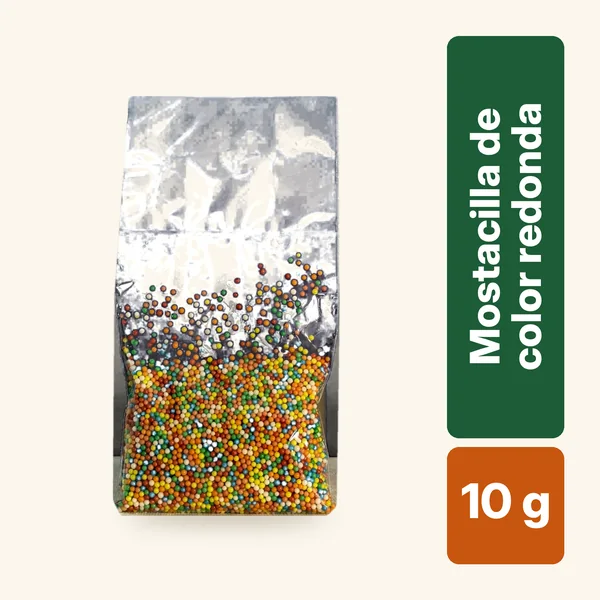
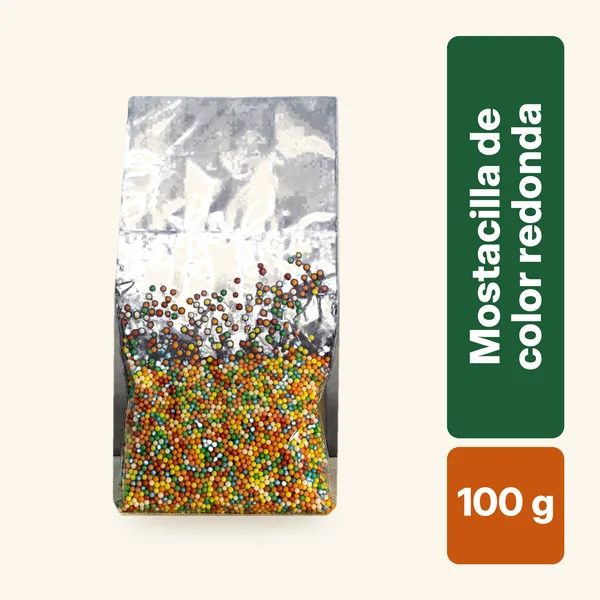
Carta: precios nuevos de cajas de huevo, línea Novogen y promo de tercera
- Cajas a un solo precio (blanco, color y Novogen): súper 13.900, extra 21.500, primera 18.990, segunda 13.990.
- Página Huevos Novogen (súper, extra, primera y segunda), solo por caja.
- Tercera: bandeja a 1.990 y 2 bandejas por 2.990 (reemplaza la oferta de 2.000).
- Coca-Cola 591 cc y mostacilla de color redonda en bolsa de 100 g.

Changed region(s): [[0.75, 0.78, 0.93, 0.9]]

diff --git a/carta/index.html b/carta/index.html
@@ -1797,17 +1797,17 @@ const LOCALES = {
       {cod:"HUE005",cat:"Huevos",nombre:"Huevo jumbo blanco",detalle:"Precio por bandeja",precio:null,formatos:"huevoGrande"},
       {cod:"HUE008",retirado:true,cat:"Huevos",nombre:"Huevo súper blanco 100 u",detalle:"Precio por bandeja",precio:null,formatos:"huevoGrande"},
       {cod:"HUE007",cat:"Huevos",nombre:"Huevo súper blanco",detalle:"Precio por bandeja",precio:null,formatos:"huevoGrande"},
-      {cod:"HUE010",retirado:true,cat:"Huevos",nombre:"Huevo súper bandeja 30 café",detalle:"Precio por unidad",precio:null,formatos:"huevoGrande"},
+      {cod:"HUE010",cat:"Huevos",nombre:"Huevo súper Novogen",detalle:"Precio por caja",precio:null,formatos:"huevoGrande",modoIni:"F100",nuevo:true},
       {cod:"HUE012",cat:"Huevos",nombre:"Huevo extra blanco",detalle:"Precio por bandeja",precio:null,formatos:"huevo"},
-      {cod:"HUE011",retirado:true,cat:"Huevos",nombre:"Huevo súper color 20 u (100 u por caja)",detalle:"Precio por bandeja",precio:null,formatos:"huevoGrande"},
+      {cod:"HUE011",cat:"Huevos",nombre:"Huevo extra Novogen",detalle:"Precio por caja",precio:null,formatos:"huevo",modoIni:"F180",nuevo:true},
       {cod:"HUE014",cat:"Huevos",nombre:"Huevo primera blanco",detalle:"Precio por bandeja",precio:null,formatos:"huevo"},
       {cod:"HUE015",cat:"Huevos",nombre:"Huevo primera café",detalle:"Precio por bandeja",precio:null,formatos:"huevo"},
       {cod:"HUE017",cat:"Huevos",nombre:"Huevo segunda blanco",detalle:"Precio por bandeja",precio:null,formatos:"huevo"},
-      {cod:"HUE019",retirado:true,cat:"Huevos",nombre:"Huevo segunda café bandeja 30",detalle:"Precio por unidad",precio:null,formatos:"huevo"},
+      {cod:"HUE019",cat:"Huevos",nombre:"Huevo segunda Novogen",detalle:"Precio por caja",precio:null,formatos:"huevo",modoIni:"F180",nuevo:true},
       {cod:"HUE022",cat:"Huevos",nombre:"Huevo de quinta jumbo × 20",detalle:"Precio por unidad",precio:null,formatos:"huevoGrande",retirado:true},
       {cod:"HUE024",retirado:true,cat:"Huevos",nombre:"Huevo quinta × 30",detalle:"Precio por unidad",precio:null,formatos:"huevo"},
       {cod:"HUE018",cat:"Huevos",nombre:"Huevo segunda café",detalle:"Precio por bandeja",precio:null,formatos:"huevo"},
-      {cod:"HUE016",retirado:true,cat:"Huevos",nombre:"Huevo primera café bandeja",detalle:"Precio por unidad",precio:null,formatos:"huevo"},
+      {cod:"HUE016",cat:"Huevos",nombre:"Huevo primera Novogen",detalle:"Precio por caja",precio:null,formatos:"huevo",modoIni:"F180",nuevo:true},
       {cod:"HUE013",cat:"Huevos",nombre:"Huevo extra café",detalle:"Precio por bandeja",precio:null,formatos:"huevo"},
       {cod:"HUE009",cat:"Huevos",nombre:"Huevo súper café",detalle:"Precio por bandeja",precio:null,formatos:"huevoGrande"},
       {cod:"HUE006",cat:"Huevos",nombre:"Huevo jumbo café",detalle:"Precio por bandeja",precio:null,formatos:"huevoGrande"},
@@ -1845,7 +1845,7 @@ const LOCALES = {
       {cod:"BEB002",cat:"Bebidas y jugos",nombre:"Agua Vital con gas 1,6 l",detalle:"Precio por unidad · paquete de 6 u",precio:720,upp:6,nuevo:true,foto:"../img/productos/fotos/BEB002.webp"},
       {cod:"BEB003",cat:"Bebidas y jugos",nombre:"Agua Vital sin gas 600 cc",detalle:"Precio por unidad · paquete de 12 u",precio:410,upp:12,nuevo:true,foto:"../img/productos/fotos/BEB003.webp"},
       {cod:"BEB004",cat:"Bebidas y jugos",nombre:"Agua Vital sin gas 1,6 l",detalle:"Precio por unidad · paquete de 6 u",precio:720,upp:6,nuevo:true,foto:"../img/productos/fotos/BEB004.webp"},
-      {cod:"BEB005",cat:"Bebidas y jugos",nombre:"Coca-Cola 561 cc",detalle:"Precio por unidad · paquete de 6 u",precio:1190,upp:6,nuevo:true,foto:"../img/productos/fotos/BEB005.webp"},
+      {cod:"BEB005",cat:"Bebidas y jugos",nombre:"Coca-Cola 591 cc",detalle:"Precio por unidad · paquete de 6 u",precio:1190,upp:6,nuevo:true,foto:"../img/productos/fotos/BEB005.webp"},
       {cod:"BEB006",cat:"Bebidas y jugos",nombre:"Coca-Cola 1,5 l",detalle:"Precio por unidad · paquete de 6 u",precio:2240,upp:6,nuevo:true,foto:"../img/productos/fotos/BEB006.webp"},
       {cod:"BEB007",cat:"Bebidas y jugos",nombre:"Coca-Cola 3 l",detalle:"Precio por unidad · paquete de 6 u",precio:3410,upp:6,nuevo:true,foto:"../img/productos/fotos/BEB007.webp"},
       {cod:"BEB008",cat:"Bebidas y jugos",nombre:"Fanta naranja 1,5 l",detalle:"Precio por unidad · paquete de 6 u",precio:2240,upp:6,nuevo:true,foto:"../img/productos/fotos/BEB008.webp"},
@@ -1951,7 +1951,7 @@ const LOCALES = {
       {cod:"ABA059",cat:"Harinas y repostería",nombre:"Maicena",detalle:"Precio por kilo",precio:1780,bolsas:[[500, 890]],nuevo:true},
       {cod:"ABA067",cat:"Harinas y repostería",nombre:"Mostacilla de chocolate",detalle:"Precio por kilo",precio:7900,bolsas:[[100, 790], [1000, 7900]],nuevo:true,foto:"../img/productos/fotos/ABA067.webp"},
       {cod:"ABA068",cat:"Harinas y repostería",nombre:"Mostacilla de color de palito",detalle:"Precio por kilo",precio:7900,bolsas:[[100, 790]],nuevo:true,foto:"../img/productos/fotos/ABA068.webp"},
-      {cod:"ABA069",cat:"Harinas y repostería",nombre:"Mostacilla de color redonda",detalle:"Precio por kilo",precio:7900,bolsas:[[10, 90]],nuevo:true,foto:"../img/productos/fotos/ABA069.webp"},
+      {cod:"ABA069",cat:"Harinas y repostería",nombre:"Mostacilla de color redonda",detalle:"Precio por kilo",precio:7900,bolsas:[[100, 790]],nuevo:true,foto:"../img/productos/fotos/ABA069.webp"},
       {cod:"ABA032",cat:"Harinas y repostería",nombre:"Cacao ecuatoriano",detalle:"Precio por kilo",precio:9960,nuevo:true,bolsas:[[250,2490]]},
       {cod:"ABA038",cat:"Harinas y repostería",nombre:"Chocolate dulce",detalle:"Precio por kilo",precio:8760,nuevo:true,bolsas:[[250,2190]]},
       {cod:"ABA024",cat:"Semillas y cereales",nombre:"Amapola",detalle:"Precio por kilo",precio:9990,bolsas:[[50, 750]],nuevo:true,foto:"../img/productos/fotos/ABA024.webp"},
@@ -2323,7 +2323,7 @@ const precioBase=p=>{const t=tapaDe(p),b=precioDe(p);if(!t)return b;return b==nu
 /* Cada página de la carta es de un solo tipo de producto: las secciones compuestas («Envases y contenedores», «Potes y salseros»…)
    se dividen según el nombre del producto. p.catBase guarda la sección original (para el ícono). El último tipo de cada lista recibe lo que no calza. */
 const SUBCATS={
-  "Huevos":[["Huevos blancos",/blanco/],["Huevos de color",/(cafe|color)/],["Huevos de quinta",/quinta/],["Huevos",/./]],
+  "Huevos":[["Huevos Novogen",/novogen/],["Huevos blancos",/blanco/],["Huevos de color",/(cafe|color)/],["Huevos de quinta",/quinta/],["Huevos",/./]],
   "Envases y contenedores":[["Envases",/^(envase|bandeja plastica|caja plastica)/],["Contenedores",/^(ct |contenedor|p 1 contenedor|clamshell|sushi)/],["Cúpulas",/./]],
   "Cajas y bandejas de cartón":[["Cajas de cartón",/^(caja|huicha|sandwich)/],["Bandejas de cartón",/^(bandeja|completero)/],["Bowls y conos de cartón",/./]],
   "Bolsas, sacos y papeles":[["Bolsas",/^(bolsa|cartucho)/],["Sacos y mallas",/^(saco|malla)/],["Papeles y film",/./]],
@@ -2343,24 +2343,33 @@ const CALIBRE=p=>{const n=nPlano(p.nombre);if(/quinta/.test(n))return /jumbo/.te
   const pal=n.split(/[^a-z0-9]+/),k=['extra','primera','segunda','tercera','cuarta'].findIndex(w=>pal.includes(w));return k<0?9:3+k};
 (()=>{const pos=[],hv=[];L.productos.forEach((p,i)=>{if(p.cat==="Huevos"&&!esPieza(p)){pos.push(i);hv.push(p)}});
   hv.map((p,i)=>({p,i,k:CALIBRE(p)})).sort((a,b)=>a.k-b.k||a.i-b.i).forEach((o,j)=>{L.productos[pos[j]]=o.p})})();
-/* Ofertas del mes con precio por formato (dato del Emporio): bandeja de 30 de huevo tercera a $2.000.
-   Solo esa bandeja lleva el precio de oferta; la unidad, la docena y la caja siguen con su precio normal. */
-const OFERTAS_FMT={HUE020:{F30:2000},HUE021:{F30:2000},ABA034:{Fb250:19590}};
+/* Ofertas del mes con precio por formato (dato del Emporio). Promo de huevo tercera (David, 21/11/2026; reemplaza la de $2.000):
+   bandeja de 30 a $1.990 y 2 bandejas por $2.990. Solo la bandeja lleva la promo; la unidad, la docena y la caja siguen con su precio normal.
+   PROMO_FMT: [n, precio] = n del formato por ese precio (en el carro, los pares van a precio de promo y la que sobra a precio de oferta). */
+const OFERTAS_FMT={HUE020:{F30:1990},HUE021:{F30:1990},ABA034:{Fb250:19590}};
 L.productos.forEach(p=>{const o=OFERTAS_FMT[p.cod];if(o){p.ofertaFmt=o;p.fav=true}});
+const PROMO_FMT={HUE020:{F30:[2,2990]},HUE021:{F30:[2,2990]}};
+const promoFmt=(p,fid)=>(PROMO_FMT[p.cod]||{})[fid]||null;
 const precioFmt=(p,fid)=>p.ofertaFmt&&p.ofertaFmt[fid]!=null?p.ofertaFmt[fid]:null;
 /* Lista de precios de huevos del 12-11-2026 (con IVA, blanco y color; David, 19/11/2026): bandeja y caja.
-   La caja: [1 caja, desde 5, desde 25, desde 35 cajas] (null = sin precio en ese tramo). La unidad, media docena, docena y 15 quedan por confirmar. */
+   La caja: [1 caja, desde 5, desde 25, desde 35 cajas] (null = sin precio en ese tramo). La unidad, media docena, docena y 15 quedan por confirmar.
+   21/11/2026 (David): cajas a un solo precio, desde 1 caja y la cantidad que sea (sin tramos), en blanco, color y Novogen:
+   súper $13.900 (caja de 100), extra $21.500, primera $18.990 y segunda $13.990 (caja de 180). Novogen solo tiene precio de caja. */
 const LISTA_HUEVOS={
   superJumbo:{F20:5500,F100:[24000,23000,22000,21000]},
   jumbo:{F20:4700,F100:[20500,19000,18000,17000]},
-  super:{F20:4000,F100:[17900,17000,16000,15000]},
-  extra:{F30:5300,F180:[27000,26000,25000,22500]},
-  primera:{F30:5000,F180:[24000,23000,22000,21000]},
-  segunda:{F30:4000,F180:[16500,15500,15000,14500]},
+  super:{F20:4000,F100:[13900,null,null,null]},
+  superNovogen:{F100:[13900,null,null,null]},
+  extra:{F30:5300,F180:[21500,null,null,null]},
+  extraNovogen:{F180:[21500,null,null,null]},
+  primera:{F30:5000,F180:[18990,null,null,null]},
+  primeraNovogen:{F180:[18990,null,null,null]},
+  segunda:{F30:4000,F180:[13990,null,null,null]},
+  segundaNovogen:{F180:[13990,null,null,null]},
   tercera:{F30:3500,F180:[12000,null,null,11000]}
 };
 const TRAMOS_CAJA=[1,5,25,35];
-const CAL_HUEVO={HUE004:"superJumbo",HUE005:"jumbo",HUE006:"jumbo",HUE007:"super",HUE009:"super",HUE012:"extra",HUE013:"extra",HUE014:"primera",HUE015:"primera",HUE017:"segunda",HUE018:"segunda",HUE020:"tercera",HUE021:"tercera"};
+const CAL_HUEVO={HUE004:"superJumbo",HUE010:"superNovogen",HUE011:"extraNovogen",HUE016:"primeraNovogen",HUE019:"segundaNovogen",HUE005:"jumbo",HUE006:"jumbo",HUE007:"super",HUE009:"super",HUE012:"extra",HUE013:"extra",HUE014:"primera",HUE015:"primera",HUE017:"segunda",HUE018:"segunda",HUE020:"tercera",HUE021:"tercera"};
 // precio de lista de un formato de huevo para n bandejas o cajas (la caja baja por tramos); null si no hay
 function precioLista(p,fid,n){if(p.bolsas){const b=p.bolsas.find(([g])=>"Fb"+g===fid);return b?b[1]:null}const c=LISTA_HUEVOS[CAL_HUEVO[p.cod]],v=c&&c[fid];if(v==null)return null;if(!Array.isArray(v))return v;let pr=v[0];TRAMOS_CAJA.forEach((d,i)=>{if(n>=d&&v[i]!=null)pr=v[i]});return pr}
 // páginas de huevos en vista «por caja»: ahí la caja es la única forma de venta (sin selector de formato)
@@ -2386,7 +2395,7 @@ function cajaPrecioHTML(p){const f=fmtInfo(p,modoDe(p)),q=cajasEn(p),pr=precioLi
 // etiqueta lateral de los huevos: «Extra color» y el formato elegido («Caja de 180», «Bandeja de 30»…)
 function etLatHTML(p){const n=nPlano(p.nombre),m=n.match(/super jumbo|quinta jumbo|jumbo|super|extra|primera|segunda|tercera|cuarta|quinta/);if(!m)return "";
   const cal={"super jumbo":"Súper jumbo","super":"Súper","quinta jumbo":"Quinta jumbo"}[m[0]]||m[0][0].toUpperCase()+m[0].slice(1);
-  const col=/(cafe|color)/.test(n)?" color":/blanco/.test(n)?" blanco":"",f=fmtInfo(p,modoDe(p));
+  const col=/novogen/.test(n)?" Novogen":/(cafe|color)/.test(n)?" color":/blanco/.test(n)?" blanco":"",f=fmtInfo(p,modoDe(p));
   return `<span class="et-lat" aria-hidden="true"><b>${cal}${col}</b>${f?`<small>${f[2]} u</small>`:""}</span>`}
 function tramosLista(p,fid){const c=LISTA_HUEVOS[CAL_HUEVO[p.cod]],v=c&&c[fid];if(!Array.isArray(v))return [];return TRAMOS_CAJA.map((d,i)=>({desde:d,precio:v[i]})).filter((e,i)=>i>0&&e.precio!=null&&e.precio<v[0])}
 L.productos.forEach(p=>{const r=SUBCATS[p.cat];if(!r||esPieza(p))return;p.catBase=p.cat;p.cat=(r.find(([,re])=>re.test(nPlano(p.nombre)))||r[r.length-1])[0]});
@@ -2396,7 +2405,7 @@ const visibles=L.productos.filter(p=>!esPieza(p)&&!p.retirado); // retirado: ya 
 const favs=visibles.filter(p=>p.fav||p.oferta!=null);
 /* Familias: en el menú se ve primero la familia («Plásticos») y al tocarla se despliegan sus páginas («Envases», «Contenedores»…) */
 const FAMILIAS=[
-  ["Huevos",["Huevos blancos","Huevos de color","Huevos","Hueveras"]],
+  ["Huevos",["Huevos blancos","Huevos de color","Huevos Novogen","Huevos","Hueveras"]],
   ["Alimento para aves",["Alimentos","Núcleos y aditivos"]],
   ["Plásticos",["Envases","Contenedores","Cúpulas","Potes","Salseros"]],
   ["Cartón",["Cajas de cartón","Bandejas de cartón","Bowls y conos de cartón"]],
@@ -2431,7 +2440,7 @@ let modo={};try{modo=JSON.parse(leePref("modos-"+KEY)||"{}")||{}}catch(e){modo={
 /* Formatos de venta de los huevos (id, nombre, unidades). Los super y jumbo además van en bandeja de 20 y caja de 100. */
 const fmtDe=p=>FORMATOS[p.formatos]||null;
 const fmtInfo=(p,m)=>(fmtDe(p)||[]).find(f=>f[0]===m);
-const modoDe=p=>fmtDe(p)?(fmtInfo(p,modo[p.cod])?modo[p.cod]:(p.formatos==="huevoGrande"?"F20":p.bolsas?"Fb"+p.bolsas[0][0]:"F30")):tienePaq(p)?(modo[p.cod]||"P"):"U";
+const modoDe=p=>fmtDe(p)?(fmtInfo(p,modo[p.cod])?modo[p.cod]:(p.modoIni||(p.formatos==="huevoGrande"?"F20":p.bolsas?"Fb"+p.bolsas[0][0]:"F30"))):tienePaq(p)?(modo[p.cod]||"P"):"U";
 const clave=(cod,m)=>m==="P"?cod+"@P":m&&m[0]==="F"?cod+"@"+m:cod;
 // unidades que trae una unidad de venta en el modo m (paquete, formato de huevos o unidad)
 const porDe=(p,m)=>m==="P"?(p.upp||1):(fmtInfo(p,m)||[0,0,1])[2];
@@ -2457,7 +2466,7 @@ function precioHTML(p){
   if(p.virtual)return p.precio==null?`<span class="precio pc">Precio por confirmar</span>`:`<span class="precio"><small class="u">Desde</small> ${clp(p.precio)} <small class="u">c/u</small></span>`;
   if(p.oferta!=null)return `<span class="precio"><span class="badge-of">Oferta</span> ${clp(p.oferta)}${p.precio!=null?` <s>${clp(p.precio)}</s>`:""}</span>`;
   const base=precioBase(p);
-  if(fmtDe(p)&&precioFmt(p,modoDe(p))!=null){const f=fmtInfo(p,modoDe(p)),po=precioFmt(p,f[0]),pl=precioLista(p,f[0],1);return `<span class="precio"><span class="badge-of">Oferta</span> ${clp(po)}${pl!=null&&pl>po?` <s>${clp(pl)}</s>`:""} <small class="u">${f[1].toLowerCase()}</small></span><small class="cu">${p.bolsas?`Sale a ${clp(Math.round(po/f[2]*1000))} el kilo`:`Sale a ${clp(Math.round(po/f[2]))} c/u`}</small>`}
+  if(fmtDe(p)&&precioFmt(p,modoDe(p))!=null){const f=fmtInfo(p,modoDe(p)),po=precioFmt(p,f[0]),pl=precioLista(p,f[0],1);return `<span class="precio"><span class="badge-of">Oferta</span> ${clp(po)}${pl!=null&&pl>po?` <s>${clp(pl)}</s>`:""} <small class="u">${f[1].toLowerCase()}</small></span><small class="cu">${p.bolsas?`Sale a ${clp(Math.round(po/f[2]*1000))} el kilo`:`Sale a ${clp(Math.round(po/f[2]))} c/u`}</small>${(pr=>pr?`<span class="mayor siempre"><span class="ok">Promo: ${pr[0]} ${f[1].replace(/^Bandeja/,"bandejas").toLowerCase()} por ${clp(pr[1])}</span></span>`:"")(promoFmt(p,f[0]))}`}
   if(enCaja(p)&&precioLista(p,modoDe(p),1)!=null)return `<span class="pcaja" data-pcaja="${p.cod}">${cajaPrecioHTML(p)}</span>`;
   if(fmtDe(p)){const f=fmtInfo(p,modoDe(p)),pl=precioLista(p,f[0],1);if(pl!=null){const ts=tramosLista(p,f[0]);
     return `<span class="precio">${clp(pl)} <small class="u">${f[1].toLowerCase()}</small></span><small class="cu">${p.bolsas?`Sale a ${clp(Math.round(pl/f[2]*1000))} el kilo`:`Sale a ${clp(Math.round(pl/f[2]))} c/u`}</small>`+(ts.length?`<span class="mayor${enCaja(p)?" siempre":""}">${enCaja(p)?"Más cajas, mejor precio:":"Por mayor:"} ${rangosLista(p,f[0]).map(r=>`<span>${textoRango(r)}: ${clp(r.precio)} c/caja</span>`).join("")}</span>`:"")}}
@@ -2589,7 +2598,7 @@ $("cats").innerHTML=(favs.length?`<button class="chip fav" data-ir="${slug(FAV)}
   ["aviPol","aviAli"].forEach(id=>$(id).addEventListener("input",arma));arma();
 })();
 /* Páginas con foto de fondo arriba (fotos propias de la avícola) */
-const FOTOS={"Huevos blancos":"huevos-blancos-bandeja.jpg","Huevos de color":"huevos-cafe-bandeja.jpg","Huevos":"huevos-editorial.jpg","Hueveras":"huevos-editorial.jpg"};
+const FOTOS={"Huevos blancos":"huevos-blancos-bandeja.jpg","Huevos de color":"huevos-cafe-bandeja.jpg","Huevos Novogen":"huevos-editorial.jpg","Huevos":"huevos-editorial.jpg","Hueveras":"huevos-editorial.jpg"};
 /* Fondos de secciones (David, 19/11/2026): plásticos (dibujo en mosaico, también en bolsas y papeles y en vasos, platos y cubiertos) y aluminio */
 ["Envases","Contenedores","Cúpulas","Potes","Salseros","Bolsas","Sacos y mallas","Papeles y film","Vasos","Platos","Cubiertos y servilletas","Bombillas, brochetas y palitos"].forEach(c=>{FOTOS[c]="fondo-plasticos.webp"});
 ["Envases de aluminio","Foil y moldes de aluminio"].forEach(c=>{FOTOS[c]="fondo-aluminio.webp"});
@@ -2604,7 +2613,8 @@ try{(JSON.parse(localStorage.getItem("cerrados-"+KEY)||"[]")||[]).forEach(c=>{co
 /* Páginas de huevos: el botón de la página los muestra por bandeja y el «por caja» de abajo, por caja (David, 19/11/2026) */
 function esHuevoFmt(p){return p.formatos==="huevo"||p.formatos==="huevoGrande"} // solo huevos (no el granel por bolsa)
 const conCaja=x=>deCat(x).some(esHuevoFmt);
-const botonPag=(x,c)=>{const b=`<button type="button" data-sec="g-${slug(x)}"${x===c?' aria-current="true"':""}${conCaja(x)?' data-vista="bandeja"':""}>${x}</button>`;
+const soloCaja=x=>{const h=deCat(x).filter(esHuevoFmt);return h.length>0&&h.every(p=>p.modoIni)}; // páginas con solo precio de caja (Novogen)
+const botonPag=(x,c)=>{if(soloCaja(x))return `<button type="button" data-sec="g-${slug(x)}"${x===c?' aria-current="true"':""} data-vista="caja">${x}</button>`;const b=`<button type="button" data-sec="g-${slug(x)}"${x===c?' aria-current="true"':""}${conCaja(x)?' data-vista="bandeja"':""}>${x}</button>`;
   return conCaja(x)?`<span class="sf-par">${b}<button type="button" class="sf-caja${x===c?" esta":""}" data-sec="g-${slug(x)}" data-vista="caja" aria-label="${x} por caja">por caja</button></span>`:b};
 cats.forEach(c=>{const ps=deCat(c).filter(esHuevoFmt);if(ps.length&&ps.every(p=>/^F1[08]0$/.test(modoDe(p))))vistaCaja.add(c)});
 $("carta").innerHTML=cats.map(c=>`
@@ -2812,7 +2822,7 @@ function mostrarLista(titulo,prods,vacio){const res=$("resBusca");if(!res)return
   $("carta").prepend(barra);
   /* Vitrina: fotos reales de la avícola (más adelante, las ofertas especiales del mes con sus propias fotos) */
   const VITRINA=[
-    {img:"../img/huevos-cafe-bandeja.jpg",et:"Oferta del mes",precio:"$2.000",tit:"Huevo tercera, bandeja de 30",txt:"En blanco o café. Elija la bandeja de 30 y agréguela a su pedido.",alt:"Bandeja de huevos café.",ir:"g-ofertas-y-promos",cta:"Ver la oferta"},
+    {img:"../img/huevos-cafe-bandeja.jpg",et:"Oferta del mes",precio:"$1.990",tit:"Huevo tercera, bandeja de 30",txt:"En blanco o café. Y 2 bandejas por $2.990. Elija la bandeja de 30 y agréguela a su pedido.",alt:"Bandeja de huevos café.",ir:"g-ofertas-y-promos",cta:"Ver la oferta"},
     {img:"../img/huevos-blancos-bandeja.jpg",et:"Promo Gym Bro",precio:"$3.800",tit:"Bandeja de huevo tercera + una Monster",txt:"Para quienes no omiten el entrenamiento de piernas: una bandeja de 30 huevos tercera junto con una Monster Ultra, la blanca sin azúcar.",alt:"Bandeja de huevos blancos.",extra:"../img/productos/monster.webp",wa:"https://wa.me/56933903395?text=Hola%2C%20quiero%20la%20Promo%20Gym%20Bro%3A%20bandeja%20de%2030%20huevos%20tercera%20%2B%20Monster%20Ultra%20blanca%2C%20a%20%243.800.",letra:"La bebida energética no se recomienda para menores de 18 años, embarazadas ni personas sensibles a la cafeína."},
     {img:"../img/avicola-pabellon-silos.jpg",et:"Nuestra avícola",tit:"Del campo de Oro Verde a tu mesa",txt:"Nuestro pabellón nuevo y sus silos, en las afueras de Chillán.",alt:"Pabellón nuevo de la avícola, de techo rojo, con dos silos metálicos bajo un cielo azul.",ali:true},
     {img:"../img/huevos-cafe-bandeja.jpg",et:"Huevos",tit:"Huevos frescos, sanos, ricos y naturales",txt:"Blancos, de color y azules, por bandeja y por caja.",alt:"Bandeja de huevos café sobre una mesa de madera.",ir:"g-huevos-de-color"},
@@ -2907,7 +2917,9 @@ const items=()=>{const out=[];L.productos.forEach(p=>{if(esPieza(p))return;const
   const nom=tp?(new RegExp("con "+pieza(tp),"i").test(p.nombre)?`${p.nombre} (${sinTapa(tp.nombre).toLowerCase()})`:`${p.nombre} con ${pieza(tp)} (${sinTapa(tp.nombre).toLowerCase()})`):p.nombre;
   const qp=cart[clave(p.cod,"P")]||0, qu=cart[p.cod]||0;
   if(qp&&tienePaq(p)){const pr=precioPaq(p,qp);out.push({...p,q:qp,precio:pr,mayor:pr!=null&&qp>=MIN_PAQ_MAYOR&&pr<precioPaq(p,1),tapa:tp,paq:true,uds:qp*p.upp,detalle:"",nombre:`${nom} · paquete de ${p.upp} u`})}
-  if(fmtDe(p)){const b=precioBase(p);fmtDe(p).filter(f=>f[0]!=="U").forEach(f=>{const qf=cart[p.cod+"@"+f[0]]||0,po=precioFmt(p,f[0]),pl=po==null?precioLista(p,f[0],qf):null;if(qf)out.push({...p,q:qf,precio:po!=null?po:pl!=null?pl:b==null?null:redondear(b*f[2]),oferta:po!=null?po:p.oferta,mayor:pl!=null&&pl<precioLista(p,f[0],1),tapa:null,paq:false,fmt:true,uds:p.bolsas?Math.round(qf*f[2])/1000:qf*f[2],detalle:"",nombre:`${nom} · ${f[1].toLowerCase()}${p.bolsas?"":` (${f[2]} u)`}`})})}
+  if(fmtDe(p)){const b=precioBase(p);fmtDe(p).filter(f=>f[0]!=="U").forEach(f=>{const qt=cart[p.cod+"@"+f[0]]||0,po=precioFmt(p,f[0]),pl=po==null?precioLista(p,f[0],qt):null,pr=po!=null&&promoFmt(p,f[0]);let qf=qt;
+    if(pr&&qt>=pr[0]){const qp=qt-qt%pr[0];qf=qt-qp;out.push({...p,q:qp,precio:pr[1]/pr[0],oferta:pr[1]/pr[0],mayor:false,tapa:null,paq:false,fmt:true,uds:qp*f[2],detalle:"",nombre:`${nom} · ${f[1].toLowerCase()} (${f[2]} u) · promo ${pr[0]} por ${clp(pr[1])}`})}
+    if(qf)out.push({...p,q:qf,precio:po!=null?po:pl!=null?pl:b==null?null:redondear(b*f[2]),oferta:po!=null?po:p.oferta,mayor:pl!=null&&pl<precioLista(p,f[0],1),tapa:null,paq:false,fmt:true,uds:p.bolsas?Math.round(qf*f[2])/1000:qf*f[2],detalle:"",nombre:`${nom} · ${f[1].toLowerCase()}${p.bolsas?"":` (${f[2]} u)`}`})})}
   if(qu){const {pr,m}=precioQ(p,qu);out.push({...p,q:qu,precio:pr,mayor:m,tapa:tp,paq:false,uds:qu,detalle:tienePaq(p)||fmtDe(p)?"por unidad":p.detalle,nombre:nom})}
 });return out};
 const lineasMyPyme=()=>{const m=new Map();items().forEach(x=>{const k1=x.cod+(x.paq?" paq":x.bolsas?" kg":" u");m.set(k1,(m.get(k1)||0)+(x.fmt?x.uds:x.q));if(x.tapa){const k2=x.tapa.cod+" u";m.set(k2,(m.get(k2)||0)+x.uds)}});return [...m].map(([k,q])=>{const [c,u]=k.split(" ");return `${c}: ${q} ${u}`}).join(", ")};

diff --git a/CLAUDE.md b/CLAUDE.md
@@ -16,7 +16,8 @@ Traspaso desde el chat "Creatividad Higgsfield" (11/11/2026). Responder siempre 
 - **Fotos y etiqueta de huevos (David, 19/11/2026):** en la vista «por caja», los huevos de color usan `img/productos/fotos/huevos-color-caja.webp` (foto de David con fondo crema y el logo de la Avícola El Huevo Sabroso arriba a la izquierda sobre placa verde; `p.fotoCaja`); los blancos, `huevos-blancos-caja.webp` (la foto se multiplicó por el crema para no recortar los huevos blancos). Todas las tarjetas de huevos llevan una etiqueta vertical a la derecha de la foto (calibre y color, y abajo la cantidad «180 u»; `etLatHTML`); la foto va corrida a la izquierda; en el celular (foto chica) la etiqueta no se muestra. Los precios por caja se muestran en rangos («1 a 4 cajas: $27.000», «5 a 24…», «35 cajas o más»; `rangosLista`), y el selector «Cajas» tiene los rangos como opciones (David, 19/11: «donde está subrayado se aplicara el rango»): elegir un rango deja la cantidad en su inicio (o la mantiene si ya está dentro) y la cantidad exacta se ajusta con − y +; el selector sigue al rango de la cantidad (`rangoDe`).
 - **Vista «por caja» (David, 19/11/2026):** sin selector de formato; en su lugar «Cajas» (1 a 50, cada opción con su precio por caja) que deja esa cantidad en el pedido; el precio por caja y el total cambian con la cantidad (tramos 5, 25 y 35 siempre visibles, el alcanzado en verde). `vistaCaja`, `enCaja`, `selCajasHTML`, `cajaPrecioHTML`.
 - **Páginas de huevos (David, 19/11/2026):** bajo el botón de cada página («Huevos blancos», «Huevos de color», «Huevos de quinta») hay un «por caja»: el botón de la página deja todos sus huevos por bandeja (20 o 30) y «por caja» los pasa a caja (100 o 180). `botonPag`, `vistaHuevos`, `grupo[data-vista]`.
-- **Huevos (David, 19/11/2026):** precios de la «Lista de precios de huevos» del 12-11-2026 en `LISTA_HUEVOS` (bandeja y caja; la caja con tramos desde 5, 25 y 35 cajas, se ven con «Ver precios por mayor») y `CAL_HUEVO` (código → calibre). Unidad, media docena, docena y 15 huevos siguen «por confirmar»; HUE023 «Huevo de quinta» sin precio (¿es la «cuarta» de la lista?); la tercera mantiene su oferta de $2.000 la bandeja (muestra tachado $3.500). Novogen (celeste) no está en la carta.
+- **Huevos (David, 19/11/2026):** precios de la «Lista de precios de huevos» del 12-11-2026 en `LISTA_HUEVOS` (bandeja y caja; la caja con tramos desde 5, 25 y 35 cajas, se ven con «Ver precios por mayor») y `CAL_HUEVO` (código → calibre). Unidad, media docena, docena y 15 huevos siguen «por confirmar»; HUE023 «Huevo de quinta» sin precio (¿es la «cuarta» de la lista?); la tercera mantiene su oferta de $2.000 la bandeja (muestra tachado $3.500).
+  - **21/11/2026 (David):** cajas a un solo precio, «desde una caja y la cantidad que sea» (tramos en null: sin precio por mayor), en blanco, color y Novogen: súper $13.900 (caja de 100), extra $21.500, primera $18.990 y segunda $13.990 (caja de 180). Las bandejas de 20 y 30 siguen con su precio. Tercera: se borró la oferta de $2.000 y quedó la promo nueva: bandeja de 30 a $1.990 (`OFERTAS_FMT`) y 2 bandejas por $2.990 (`PROMO_FMT` nuevo: en el carro los pares van en su línea a $1.495 c/u y la que sobra a $1.990; la tarjeta muestra «Promo: 2 bandejas de 30 por $2.990»; la vitrina dice $1.990). La caja de tercera no cambió. Novogen es otra línea: página nueva «Huevos Novogen» en la familia Huevos (SUBCATS /novogen/, FOTOS = huevos-editorial.jpg mientras no haya foto real de huevos azules) con súper HUE010, extra HUE011, primera HUE016 y segunda HUE019 Novogen (códigos de MyPyme; reemplazaron líneas retiradas con nombres antiguos), calibres `superNovogen`/`extraNovogen`/`primeraNovogen`/`segundaNovogen` solo con caja, `modoIni` (nuevo: formato con que parte el producto, F100 o F180) y etiqueta lateral «Súper Novogen»… La página Novogen no tiene botón «por caja»: se ve siempre por caja (`soloCaja`), porque no hay precio de bandeja. Faltan en la carta (sin precio): súper jumbo HUE024, jumbo HUE025 y tercera HUE026 Novogen. Ojo: en la carta HUE025 es la «Bandeja para 20 huevos» y HUE024 es una línea retirada.
 - **Precio por mayor desde 10 (David, 19/11/2026, «usemos las dos opciones»):** el producto con precio por mayor propio (`pm`, c/u o c/paquete) lo usa desde 10 u o 10 paquetes; el resto mantiene el porcentaje, pero desde 10: −5 % desde 10 u y −10 % desde 50 u; en paquete, −5 % el paquete y −10 % desde 10 paquetes (`mayor.paquetes`). `pq` = precio fijo del paquete (disponible, hoy sin uso). Lo que se vende solo por paquete («Precio por paquete de N u») también acepta `pm`: «10 paquetes o más». Los `pm` salen de la columna AA «Precio por 10 o más» de la planilla de inventario (7). La cuchara larga DES015 se vende **solo por paquete** de 100 a $3.590 (David, 19/11); pendiente su precio por 10 paquetes (los $1.890 eran para $2.190 el paquete).
 
 ## Pedido de David (11/11/2026, 22:01)
@@ -151,7 +152,7 @@ David no quiere que la dirección diga «jefatura»; eligió **avicolasb.com**, 
 
 ## Pendiente
 00. **Fotos de productos** (tarea pedida por David el 20/11/2026): 332 productos visibles (297 desde el lote de fotos de la tarde del 20/11) de la carta sin foto propia, en 20 secciones (más los 19 alimentos para aves y la promo de bolsa de basura). La lista está en «Fotos pendientes - Catálogo Emporio 2026-11-20.xlsx» (escritorio de David), con el código de la planilla (7), el código de la carta (= nombre del archivo `img/productos/fotos/CÓDIGO.webp`) y la columna «Foto lista ✓». Fotos reales, sin marca de agua y con fondo plano #FBF6EC. Las fotos se piden una por mensaje. Los huevos usan las fotos de bandeja y caja, y las tapas y blondas no se muestran solas.
-   - 20/11/2026 tarde: David pidió sacar de internet las fotos de las 16 bebidas (BEB001–BEB016), «porque están disponibles». Se tomaron las imágenes oficiales de la tienda de Coca-Cola Andina (API pública VTEX `andina.micoca-cola.cl/api/catalog_system/pub/products/search?ft=…`, imágenes de `micocacola.vteximg.com.br`, 1000 px sobre blanco con una franja de color a la derecha). Se hicieron con `herramientas/fotos/fotoWeb.py` (corta la franja, encuadra y MULTIPLICA sobre la ficha crema, sin recortar contorno: las botellas transparentes quedan bien). Coca-Cola 561 cc usa la foto de la botella de 591 ml (en Chile no hay 561: preguntar a David si el nombre es un error). Monster Ultra = la lata blanca «sin calorías». Créditos en `legal.html#licencias`. Quedan 316; la lista nueva es «Fotos pendientes - Catálogo Emporio 2026-11-20 actualizada.xlsx» (la original estaba abierta en Excel).
+   - 20/11/2026 tarde: David pidió sacar de internet las fotos de las 16 bebidas (BEB001–BEB016), «porque están disponibles». Se tomaron las imágenes oficiales de la tienda de Coca-Cola Andina (API pública VTEX `andina.micoca-cola.cl/api/catalog_system/pub/products/search?ft=…`, imágenes de `micocacola.vteximg.com.br`, 1000 px sobre blanco con una franja de color a la derecha). Se hicieron con `herramientas/fotos/fotoWeb.py` (corta la franja, encuadra y MULTIPLICA sobre la ficha crema, sin recortar contorno: las botellas transparentes quedan bien). Coca-Cola usa la foto de la botella de 591 ml; el 21/11/2026 David confirmó que es de 591 cc: se corrigió el nombre (antes «561 cc») y la etiqueta de la ficha BEB005. Monster Ultra = la lata blanca «sin calorías». Créditos en `legal.html#licencias`. Quedan 316; la lista nueva es «Fotos pendientes - Catálogo Emporio 2026-11-20 actualizada.xlsx» (la original estaba abierta en Excel).
    - 20/11/2026 tarde: cajas de sushi con fotos de David (fondo azul, tela beige). Sushi 2 rolls (PLA040): 3 fotos, la primera es la que David pidió «usar primero»; Sushi 3 rolls (PLA041): 2 fotos. Recorte con `transparente.py`; nueva opción `fondoCol: [y0, y1]` para cuando detrás hay un borde vertical pared clara | monitor oscuro (toma la luz de la pared de esas filas, columna por columna, y evita la mancha gris). Las fichas con recorte RGBA se hacen con `fotoWeb.py` (`"recorte": true`, `"archivo": "PLA040-2"`). Si David manda fotos mientras trabajo, no quedan como archivo: pedir que las reenvíe (pasó con «vaso domo 12-16 oz» y «vaso miel 1»).
    - 20/11/2026 tarde, segundo lote de fotos de David (las fotos van en el mismo orden que los nombres de su mensaje):
      - Puestas: Cp 790 cuchuflí PLA002 (3 fotos), Envase miel 1 kg con diseño PLA034, Copa helado Garza VAS026, Vaso 500 cc Vanni VAS006, Vaso 500 cc rojo Vacan VAS019 (con `opaco.py`) y Copa veneciana 350 cc VAS001.
@@ -179,7 +180,7 @@ David no quiere que la dirección diga «jefatura»; eligió **avicolasb.com**, 
      - Desechables: brocheta 25 cm Bio Ely DES007, guante vinilo talla S DES054 (opaco.py), cuchillo plástico DES023, tenedor plástico DES049, cuchara de madera DES014, tenedor de madera DES046, cuchara Sterling → «Cuchara plástica» DES017 y bombilla Great Value DES002.
      - Ya tenían esa misma foto: brochetas 15 y 20 cm, mondadientes, guante nitrilo, set cubiertos madera y pack cubiertos.
      - Bombilla de papel Vanni a rayas: la ficha está hecha (`bombillaVanni.webp` en el scratchpad), David confirmó que es la estrecha: quedó en DES003.
-   - ABA069 «Mostacilla de color redonda» figura con bolsa de 10 g (planilla: «10 bolsas de 10 g»), pero en la foto de David la bolsa parece más grande: confirmar con él.
+   - ABA069 «Mostacilla de color redonda»: el 21/11/2026 David confirmó que la bolsa es de 100 g (la planilla decía «10 bolsas de 10 g»). Quedó bolsas:[[100, 790]] (precio por kilo 7.900, igual que ABA068) y la ficha dice «100 g».
    - Maní confitado sabor queso ABA061: sin foto. La única foto de maní suelto en internet es de una tienda (sin licencia libre); se le pidió a David una foto de su bolsa de 100 g.
      - Una sesión paralela («CLAUDE.md pendientes (fork)») hizo PLA033, charqui ABA094/ABA095, carne de soya ABA035 y las cajas CAR046–CAR053:
        - PLA033 «Envase miel 1/2 kg con tapa»: foto de David «vaso miel 1/2», con `transparente.py` y `soloPoligono`. POT022 «Pote miel transparente 16 oz (500 cc)» es OTRO envase (David, 20/11): sigue sin foto.
